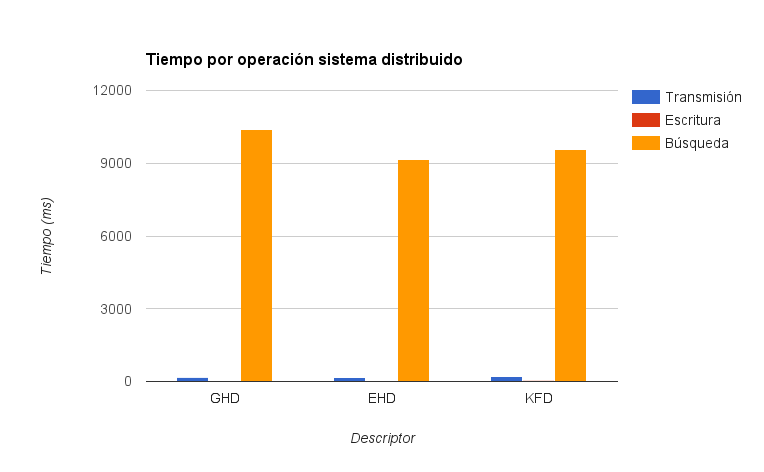
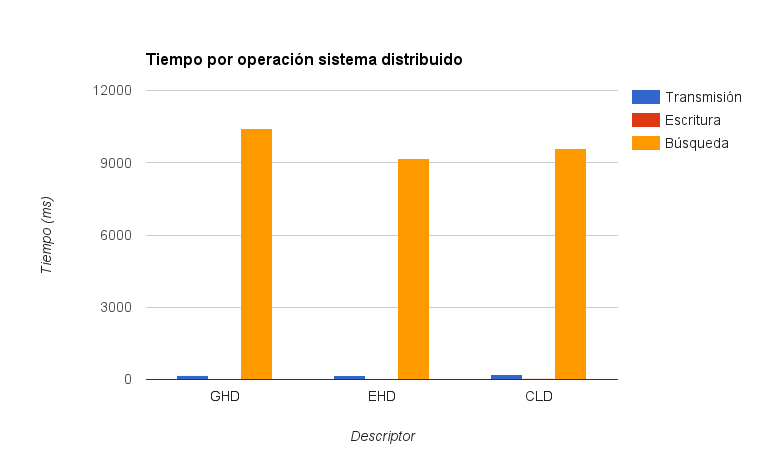
Cambié referencias a KFD por CLD

diff --git a/memoria_latex/cap4.tex b/memoria_latex/cap4.tex
@@ -208,8 +208,8 @@ La tercera etapa requiere el uso de RenderScript para realizar el cómputo. Esto
 
 En la cuarta etapa primero se extrae el contenido de la Allocation que contiene el histograma y se copia a un arreglo de ints. Esto se logra con el método \texttt{copyTo} de la clase \texttt{Allocation}. Luego se crea un nuevo arreglo de doubles que contendrá el histograma normalizado. Se itera sobre el histograma dividiendo cada valor por la cantidad de pixeles en su zona correspondiente y asignando el resultado al histograma normalizado. Finalmente se crea un objeto \texttt{GaryHistogramDescriptor} con el histograma normalizado y se retorna.
 
-%%KEYFRAME_EXTRACTOR
-\texttt{KeyframeExtractor} maneja el cálculo del descriptor reduced keyframe. El algoritmo para calcularlo toma los siguientes pasos:
+%%COLOR_LAYOUT_EXTRACTOR
+\texttt{ColorLayoutExtractor} maneja el cálculo del descriptor de distribución de colores. El algoritmo para calcularlo toma los siguientes pasos:
 \begin{enumerate}
 \item Transformar imagen de formato YUV a formato RGB.
 \item Croppear imagen para ajustarse a los límites establecidos por el usuario.
@@ -220,7 +220,7 @@ El primer paso se logra usando la clase \texttt{ScriptIntrinsicYuvToRGB} de Rend
 
 El segundo paso se logra de la misma manera que en el extractor anterior, usando el método \texttt{copy2DRangeFrom} de la clase Allocation. El resultado de este paso es un Allocation que contiene los valore RGB de la sección de la imagen indicada por el usuario.
 
-El tercer paso se realiza usando RenderScript con el script \texttt{keyframe.rs}. Este script itera sobre cada pixel de la imagen y separa el pixel en sus valores de rojo, verde y azul. Cada valor es sumado a un contador correspondiente a su zona. Para realizar esta suma se usó la función \texttt{rsAtomicAdd} de RenderScript que permite realizar sumas de manera atómica. La Allocation de salida contiene la suma de los valores de rojo, verde y azul de los pixeles de cada zona. Para calcular el valor promedio de cada color basta dividir el valor obtenido por el script por la cantidad de pixeles de cada zona. Para esto se extrae el contenido de la Allocation usando el método \texttt{copyTo} al igual que en el extractor anterior. Luego se itera por cada valor y se divide por la cantidad de pixeles de la zona. Finalmente se crea un objeto \texttt{KeyframeDescriptor} y se retorna. El código del script \texttt{keyframe.rs} se encuentra adjunto en la sección de Anexos.
+El tercer paso se realiza usando RenderScript con el script \texttt{color\_layout.rs}. Este script itera sobre cada pixel de la imagen y separa el pixel en sus valores de rojo, verde y azul. Cada valor es sumado a un contador correspondiente a su zona. Para realizar esta suma se usó la función \texttt{rsAtomicAdd} de RenderScript que permite realizar sumas de manera atómica. La Allocation de salida contiene la suma de los valores de rojo, verde y azul de los pixeles de cada zona. Para calcular el valor promedio de cada color basta dividir el valor obtenido por el script por la cantidad de pixeles de cada zona. Para esto se extrae el contenido de la Allocation usando el método \texttt{copyTo} al igual que en el extractor anterior. Luego se itera por cada valor y se divide por la cantidad de pixeles de la zona. Finalmente se crea un objeto \texttt{ColorLayoutDescriptor} y se retorna. El código del script \texttt{color\_layout.rs} se encuentra adjunto en la sección de Anexos.
  
 %%EDGEHISTOGRAM_EXTRACTOR
 La clase \texttt{EdgeHistogramExtractor} se encarga del cálculo del descriptor de histograma de bordes. Los pasos del algoritmo para el computo son los siguientes:
@@ -235,7 +235,7 @@ La clase \texttt{EdgeHistogramExtractor} se encarga del cálculo del descriptor 
 
 Las primeras dos etapa son idénticas a las primeras etapas del cálculo del descriptor de histograma de grises y se realizan de la misma forma. El resultado al final de la segunda etapa es un Allocation con los valores de gris correspondiente a la sección de la imagen seleccionada por el usuario.
 
-La tercer etapa es similar al cálculo del descriptor reduced keyframe y se realiza de forma análoga. El script \texttt{reducer.rs} divide la imagen en bloques e itera sobre cada pixel sumando su valor de gris al de la zona correspondiente. El resultado del script es una Allocation con la suma de los pixeles en cada zona. Al igual que en el descriptor anterior se extraen los resultados a un arreglo usando el método \texttt{copyTo} y se divide cada valor por la cantidad de pixeles por zona, con esto se obtiene un arreglo con el valor de gris promedio en cada zona.
+La tercer etapa es similar al cálculo del descriptor de distribución de colores y se realiza de forma análoga. El script \texttt{reducer.rs} divide la imagen en bloques e itera sobre cada pixel sumando su valor de gris al de la zona correspondiente. El resultado del script es una Allocation con la suma de los pixeles en cada zona. Al igual que en el descriptor anterior se extraen los resultados a un arreglo usando el método \texttt{copyTo} y se divide cada valor por la cantidad de pixeles por zona, con esto se obtiene un arreglo con el valor de gris promedio en cada zona.
 
 Para la cuarta etapa se toma el arreglo resultante del paso anterior y se usa para poblar una Allocation. Estos datos se usan como entrada para el script \texttt{borderDetector.rs}, que toma grupos de cuatro bloques y calcula el valor de energía de cada filtro, selecciona el mayor y se prueba si pasa el valor umbral. La Allocation de salida contiene un número del 0 al 5 por cada bloque, si el filtro de mayor energía pasó el valor umbral, el valor irá de 0 a 4 indicando el indice del filtro de mayor energía, en caso que el mayor no supere el umbral se marcará con un 5.
 

diff --git a/memoria_latex/cap3.tex b/memoria_latex/cap3.tex
@@ -2,7 +2,7 @@
  En este capítulo se detalla el funcionamiento de los descriptores que fueron implementados y probados en la memoria.
 
 \section{Descriptor de Histograma de grises por zona (GHD)}\label{ghd}
-Este descriptor busca capturar la distribución espacial de la luz en la imagen usando histogramas de grises. Un histograma de grises, o histograma de intensidad, representa la cantidad de pixeles con cierto rango de intensidad, suponiendo que un pixel tiene intensidad entre 0 y 255 y que el histograma tiene $m$ bins entonces el valor del bin $i$ del histograma representa la cantidad de pixeles en la imagen con intensidad en el intervalo $[\frac{255*i}{m},\frac{255*(i+1)}{m})$.
+El descriptor de histograma de grises o \emph{gray histogram descriptor} busca capturar la distribución espacial de la luz en la imagen usando histogramas de grises. Un histograma de grises, o histograma de intensidad, representa la cantidad de pixeles con cierto rango de intensidad, suponiendo que un pixel tiene intensidad entre 0 y 255 y que el histograma tiene $m$ bins entonces el valor del bin $i$ del histograma representa la cantidad de pixeles en la imagen con intensidad en el intervalo $[\frac{255*i}{m},\frac{255*(i+1)}{m})$.
 
 Para calcular el GHD de una imagen primero se pasa la imagen a escala de grises, luego se divide en $W \times H$ zonas, para cada zona se calcula un histograma de $m$ bins con la intensidad de sus pixeles, para formar el descriptor global de la imagen se concatenan los histogramas de cada zona. La figura~\ref{descriptor_ghd} ilustra el proceso del cálculo del descriptor.El descriptor final es un vector de $W \times H \times m$ dimensiones.
     \begin{figure}[!h]
@@ -12,17 +12,17 @@ Para calcular el GHD de una imagen primero se pasa la imagen a escala de grises,
 		\label{descriptor_ghd}
 	\end{figure}
 
-\section{Reduced Keyframe (KF)}\label{kfd}
-Este descriptor busca representar la distribución de color en la imagen. Para lograr esto se divide en $W \times H$ zonas, para cada zona se calcula el color promedio de sus pixeles, calculando por separado el promedio en cada canal de la imagen RGB, así para cada zona se obtiene tres valores correspondientes a los valores promedio de rojo, verde y azul en la zona. La figura~\ref{descriptor_kf} ilustra el resultado de el proceso anterior.  Se concatenan los resultados de cada zona para formar el descriptor global. El descriptor es un vector de $W \times H \times 3$ dimensiones.
+\section{Descriptor de distribución de colores (CLD)}\label{cld}
+El descriptor de distribución de colores o \emph{color layout descriptor} busca representar la distribución de color en la imagen~\cite{Katsuni:cld, Manjunath:desc}. Para lograr esto se divide en $W \times H$ zonas, para cada zona se calcula el color promedio de sus pixeles, calculando por separado el promedio en cada canal de la imagen RGB, así para cada zona se obtiene tres valores correspondientes a los valores promedio de rojo, verde y azul en la zona. La figura~\ref{descriptor_cld} ilustra el resultado de el proceso anterior.  Se concatenan los resultados de cada zona para formar el descriptor global. El descriptor es un vector de $W \times H \times 3$ dimensiones.
     \begin{figure}[!h]
 		\centering
 		\includegraphics[scale=0.4]{imagenes/cap3/descriptor_kf.png}
-		\caption{Ilustración del algoritmo para calcular el descriptor KF.}
-		\label{descriptor_kf}
+		\caption{Ilustración del algoritmo para calcular el descriptor CLD.}
+		\label{descriptor_cld}
 	\end{figure}
 
-\section{Histograma de bordes por zona (EHD)}\label{ehd}
-Este descriptor busca representar la orientación de los bordes presentes en la imagen \cite{Manjunath:ehd}. Se construye pasando la imagen a escala de grises y particionándola en $W \times H$ zonas, cada zona se subdivide en $M_w \times M_h$ bloques y cada bloque se subdivide en cuatro sub-bloques como muestra la Figura~\ref{ehd_blocks}. 
+\section{Descriptor de histograma de bordes por zona (EHD)}\label{ehd}
+El descriptor de histograma de bordes o \emph{edge histogram descriptor} busca representar la orientación de los bordes presentes en la imagen \cite{ParkJW00:ehd, Manjunath:desc}. Se construye pasando la imagen a escala de grises y particionándola en $W \times H$ zonas, cada zona se subdivide en $M_w \times M_h$ bloques y cada bloque se subdivide en cuatro sub-bloques como muestra la Figura~\ref{ehd_blocks}. 
     \begin{figure}[!h]
 		\centering
 		\includegraphics[scale=0.45]{imagenes/cap3/ehd_blocks.png}

diff --git a/memoria_latex/cap1.tex b/memoria_latex/cap1.tex
@@ -20,7 +20,7 @@ Para conseguir el objetivo principal de la memoria se pueden detallar varios obj
 \subsubsection*{Aplicación Android}
 \begin{itemize}
 \item Implementar una aplicación Android capaz de capturar frames usando la cámara del dispositivo.
-\item Implementar un módulo que reciba frames de la cámara y calcule descriptores de imágenes, el módulo debe ser capaz de calcular descriptores de Histograma de grises, Histograma de bordes y Reduced keyframe.
+\item Implementar un módulo que reciba frames de la cámara y calcule descriptores de imágenes, el módulo debe ser capaz de calcular descriptores de Histograma de grises, Histograma de bordes y Distribución de colores.
 \item Obtener resultados de la búsqueda ejecutada por el servidor y mostrárselos al usuario.
 \end{itemize}
 \subsubsection*{Servidor}
@@ -39,7 +39,7 @@ Para conseguir el objetivo principal de la memoria se pueden detallar varios obj
 \section{Estructura de la memoria}
 El capítulo \ref{intro} contiene la seccion \ref{motivacion}, que presenta una breve introducción y motivación de los problemas relevantes para la memoria, y la sección \ref{objetivos} donde se detalla el objetivo principal y una lista de objetivos específicos de esta memoria.
 El capítulo \ref{conceptos} define conceptos útiles en \ref{definiciones}, para luego detallar el funcionamiento de la detección de copias en \ref{copias} y las descriptores de video en \ref{descriptores}, finalmente se describen los programas y herramientas usadas, en \ref{android} se describe el sistema Android, en \ref{renderscript} el framework RenderScript y en \ref{pvcd} el programa P-VCD.
-El capítulo \ref{cap_descriptores} expone los descriptores escogidos para implementar en esta memoria, ``Histograma de grises por zona'' en \ref{ghd}, ``Reduced Keyframe'' en \ref{kfd} e ``Histograma de bordes'' en \ref{ehd}.
+El capítulo \ref{cap_descriptores} expone los descriptores escogidos para implementar en esta memoria, ``Histograma de grises por zona'' en \ref{ghd}, ``Distribución de colores'' en \ref{cld} e ``Histograma de bordes'' en \ref{ehd}.
 En el capítulo \ref{implementacion} se detalla la implementación del sistema, se divide dos secciones para describir las alternativas de arquitectura del sistema, una centralizada \ref{central} y otra distribuida \ref{distr}.
 El capítulo \ref{evaluacion} describe los experimentos realizados para evaluar el sistema en \ref{experimentos}, para luego mostrar y discutir sus resultados en \ref{resultados}.
 Finalmente el capítulo \ref{cap_conclusiones} presenta conclusiones finales de la memoria en \ref{conclusiones}, y lista posible trabajo futuro en \ref{futuro}.

diff --git a/memoria_latex/memoria.tex b/memoria_latex/memoria.tex
@@ -48,6 +48,47 @@
   backgroundcolor=\color{mygray2}
 }
 
+\definecolor{pblue}{rgb}{0.13,0.13,1}
+\definecolor{pgreen}{rgb}{0,0.5,0}
+\definecolor{pred}{rgb}{0.9,0,0}
+\definecolor{pgrey}{rgb}{0.46,0.45,0.48}
+
+\lstdefinestyle{JavaInputStyle}{
+  language=Java,
+  frame=tb,
+  numbers=left,
+  backgroundcolor=\color{mygray},
+  keywordstyle=\color{pblue},
+  keywords=[2]{Intent, Allocation}
+  showspaces=false,
+  showtabs=false,
+  breaklines=true,
+  showstringspaces=false,
+  breakatwhitespace=true,
+  commentstyle=\color{pgreen},
+  keywordstyle={[2]\color{pred}},
+  stringstyle=\color{pred},
+  basicstyle=\ttfamily,
+  %moredelim=[il][\textcolor{pgrey}]{$$},
+  %moredelim=[is][\textcolor{pgrey}]{\%\%}{\%\%}
+}
+
+\lstdefinestyle{JavaInputStyle2}{
+  language=Java,
+  basicstyle=\small\sffamily,
+  frame=tb,
+  numbers=left,
+  columns=fullflexible,
+  backgroundcolor=\color{mygray},
+  %backgroundcolor=\color{mygray2
+  keywordstyle=\color{keywords},
+  commentstyle=\color{green},
+  stringstyle=\color{red},
+  showstringspaces=false,
+  identifierstyle=\color{red}
+}
+
+
 \newcommand*\justify{%
   \fontdimen2\font=0.4em% interword space
   \fontdimen3\font=0.2em% interword stretch

diff --git a/memoria_latex/Anexos.tex b/memoria_latex/Anexos.tex
@@ -24,9 +24,9 @@ void root(const uchar *v_in, uint32_t x,  uint32_t y) {
 }
 \end{lstlisting}
 
-\subsection*{\texttt{keyframe.rs}}
+\subsection*{\texttt{color\_layout.rs}}
 \begin{lstlisting}
-void setup_keyframe(int32_t n_width, int32_t n_height,
+void setup_color_layout(int32_t n_width, int32_t n_height,
     int32_t imgWidth, int32_t imgHeight){
     height = n_height;
     width = n_width;
